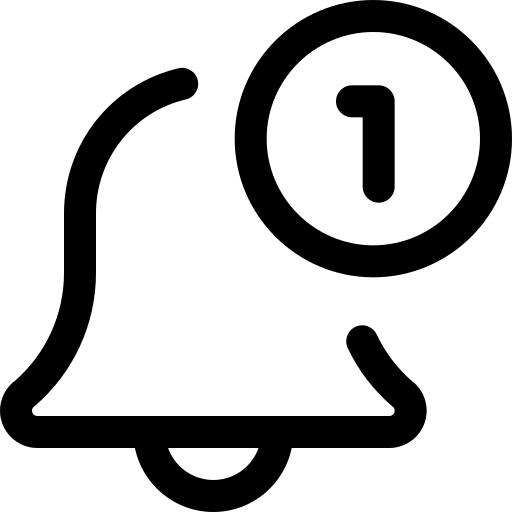
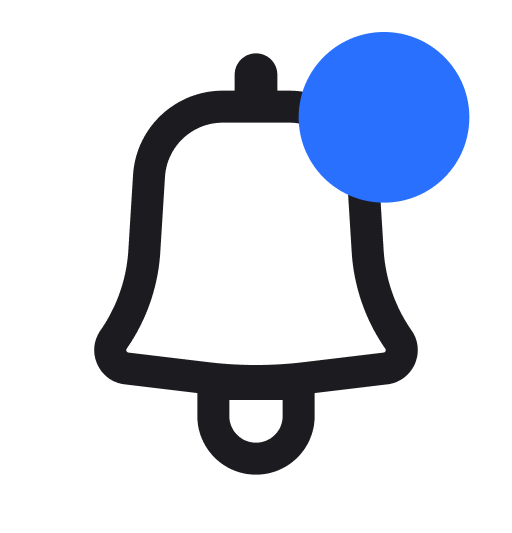
fix UI bug
- Fix total usd bal color in dark mode
- Fix send and receive btns hover mishap
- Change notifications icon

diff --git a/ui/page/components/nav_drawer.go b/ui/page/components/nav_drawer.go
@@ -120,12 +120,22 @@ func (nd *NavDrawer) LayoutTopBar(gtx layout.Context) layout.Dimensions {
 		return card.Layout(gtx, func(gtx C) D {
 			list := layout.List{Axis: layout.Horizontal}
 			return list.Layout(gtx, len(nd.AppNavBarItems), func(gtx C, i int) D {
+				// The parent card has all border radius (tl, tr, bl, br) set to
+				// 20. This requires setting it's children border so they
+				// respects the parent border.
+				radius := cryptomaterial.CornerRadius{TopLeft: 20, BottomLeft: 20}
+				if i+1 == len(nd.AppNavBarItems) {
+					radius = cryptomaterial.CornerRadius{TopRight: 20, BottomRight: 20}
+				}
 				return cryptomaterial.LinearLayout{
 					Width:       cryptomaterial.WrapContent,
 					Height:      cryptomaterial.WrapContent,
 					Orientation: layout.Horizontal,
 					Clickable:   nd.AppNavBarItems[i].Clickable,
 					Alignment:   layout.Middle,
+					Border: cryptomaterial.Border{
+						Radius: radius,
+					},
 				}.Layout(gtx,
 					layout.Rigid(func(gtx C) D {
 						return layout.Inset{

diff --git a/ui/page/root/home_page.go b/ui/page/root/home_page.go
@@ -345,14 +345,12 @@ func (hp *HomePage) balanceLayout(gtx C) D {
 	}
 
 	lblText := hp.Theme.Label(values.TextSize30, "--")
-	lblText.Color = hp.Theme.Color.PageNavText
 	return lblText.Layout(gtx)
 }
 
 // TODO: use real values
 func (hp *HomePage) LayoutUSDBalance(gtx C) D {
 	lblText := hp.Theme.Label(values.TextSize30, "$0.00")
-	lblText.Color = hp.Theme.Color.PageNavText
 
 	if hp.isBalanceHidden {
 		lblText = hp.Theme.Label(values.TextSize24, "********")
@@ -370,7 +368,6 @@ func (hp *HomePage) totalBalanceTextAndIconButtonLayout(gtx C) D {
 	}.Layout(gtx,
 		layout.Rigid(func(gtx C) D {
 			lbl := hp.Theme.Label(values.TextSize14, values.String(values.StrTotalValue))
-			lbl.Color = hp.Theme.Color.PageNavText
 			return lbl.Layout(gtx)
 		}),
 		layout.Rigid(func(gtx C) D {

diff --git a/ui/cryptomaterial/icon_gallery.go b/ui/cryptomaterial/icon_gallery.go
@@ -240,5 +240,6 @@ func (i *Icons) DarkModeIcons() *Icons {
 	i.TransactionFingerprint = NewImage(decredIcons["dm_transaction_fingerprint"])
 	i.ArrowForward = NewImage(decredIcons["dm_arrow_fwd"])
 	i.ChevronLeft = NewImage(decredIcons["chevron_left"])
+	i.Notification = NewImage(decredIcons["dm_notification"])
 	return i
 }
